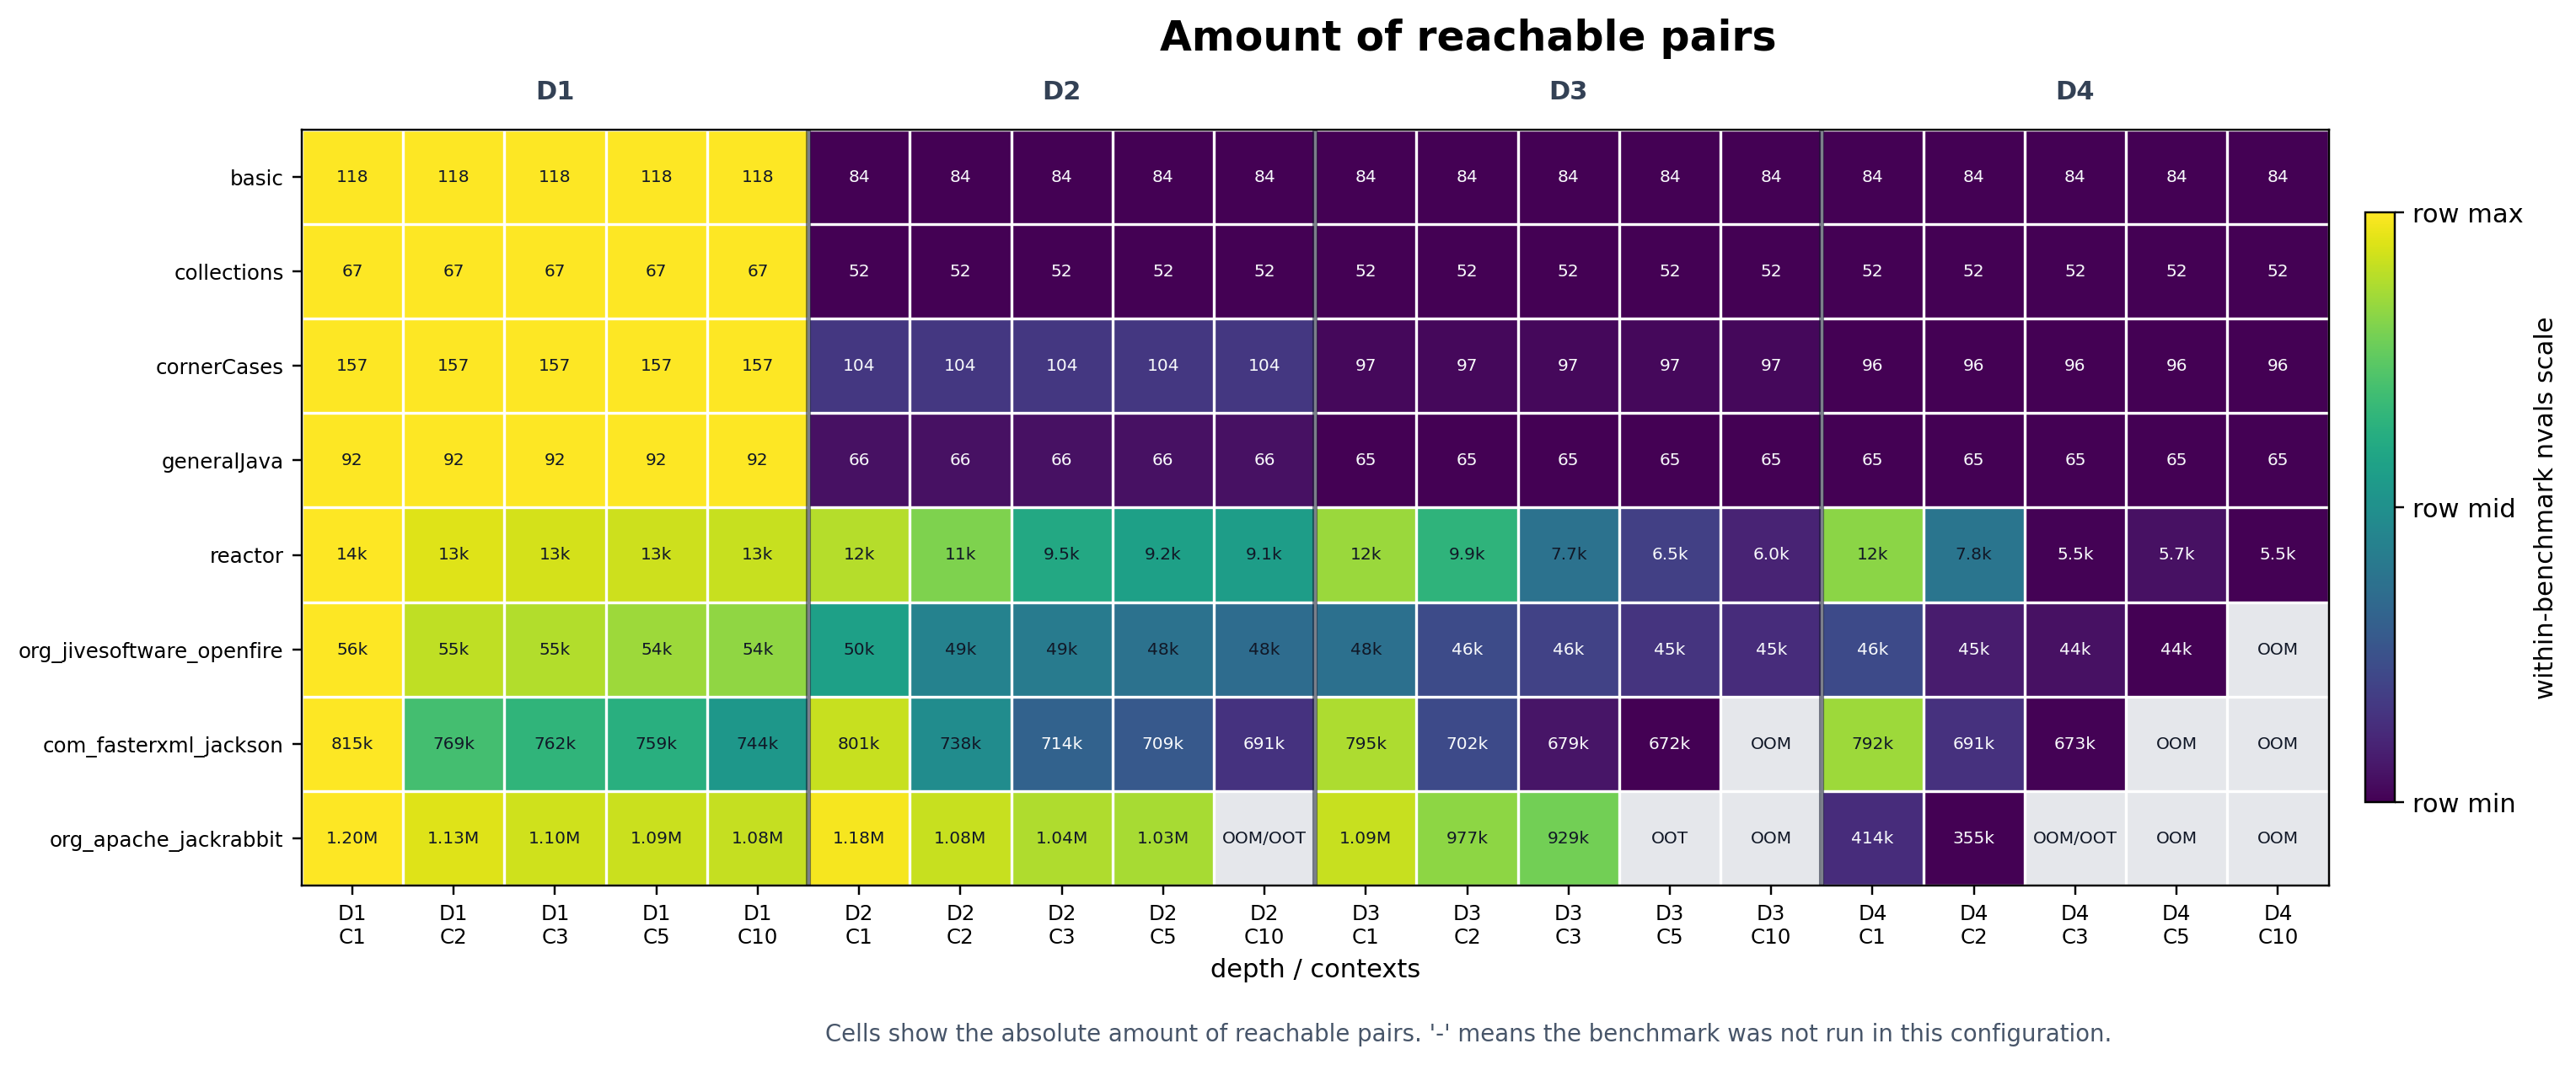
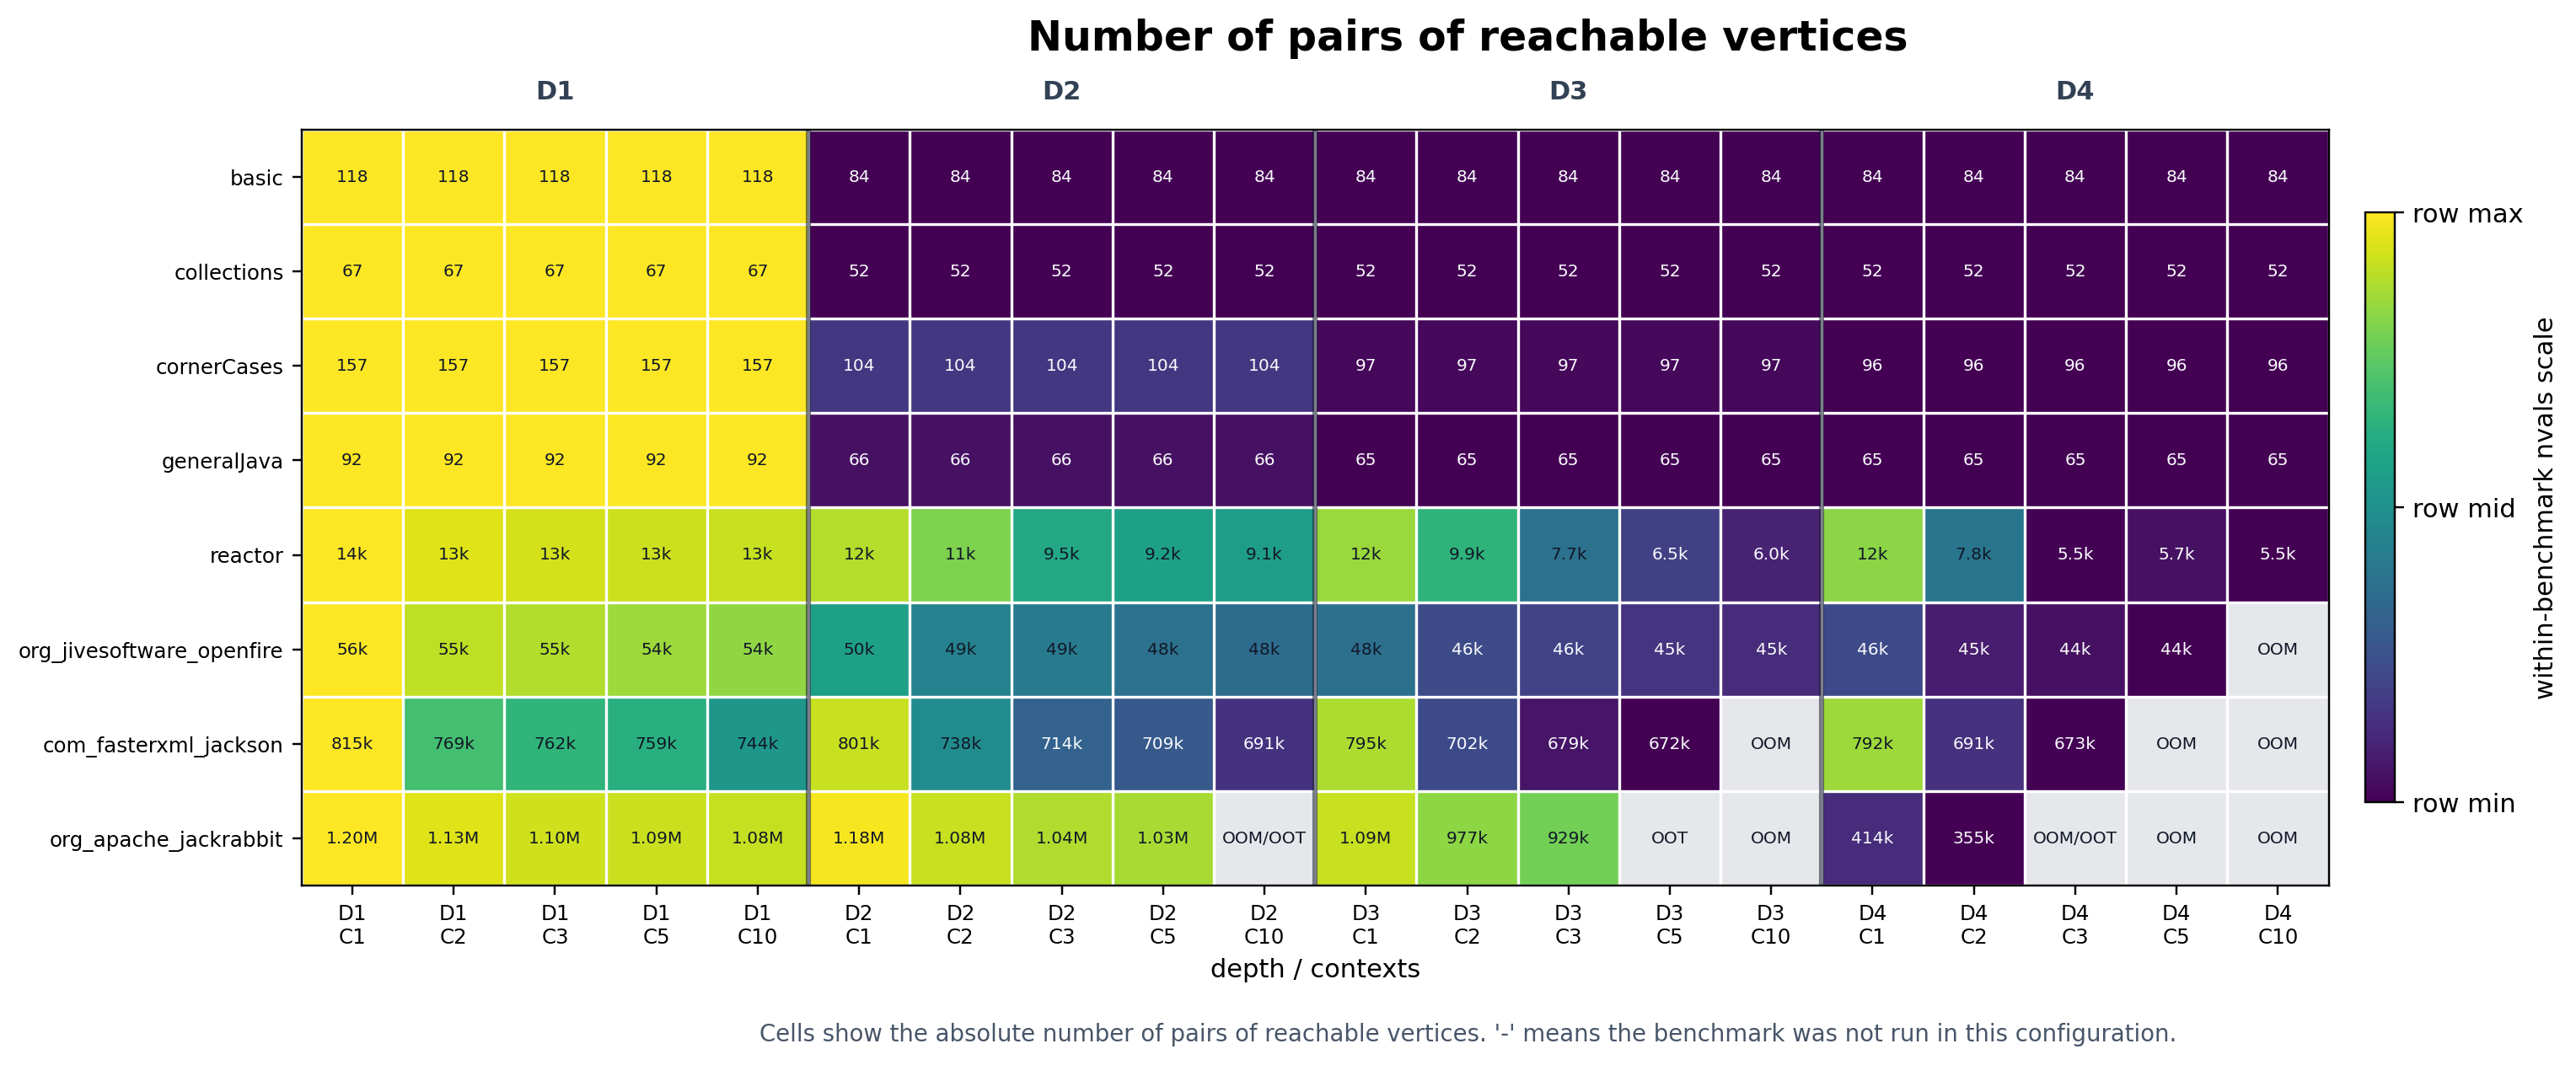
Fix: fix term rechable pairs

Changed region(s): [[0.4041, 0.0, 0.7461, 0.0617], [0.2798, 0.9565, 0.8393, 0.9873]]

diff --git a/analysis/scripts/plot_homka_bgef_nvals_table.py b/analysis/scripts/plot_homka_bgef_nvals_table.py
@@ -296,7 +296,7 @@ def plot_table(df: pd.DataFrame, output: Path, small_only: bool) -> None:
                     color=color,
                 )
 
-    fig.suptitle("Amount of reachable pairs", fontsize=16, fontweight="bold", y=0.98)
+    fig.suptitle("Number of pairs of reachable vertices", fontsize=16, fontweight="bold", y=0.98)
     fig.subplots_adjust(left=0.13, right=0.9, top=0.88, bottom=0.2)
     cbar = fig.colorbar(image, ax=ax, shrink=0.78, pad=0.015)
     cbar.set_ticks([0, 0.5, 1])
@@ -305,7 +305,7 @@ def plot_table(df: pd.DataFrame, output: Path, small_only: bool) -> None:
     fig.text(
         0.5,
         0.06,
-        "Cells show the absolute amount of reachable pairs. '-' means the benchmark was not run in this configuration.",
+        "Cells show the absolute number of pairs of reachable vertices. '-' means the benchmark was not run in this configuration.",
         ha="center",
         fontsize=9,
         color="#475569",

diff --git a/README.md b/README.md
@@ -33,7 +33,7 @@ counts 1, 2, 3, 5, and 10 (`C1`, `C2`, ...).
 
 Each configuration was launched three times. Running time is reported as the arithmetic mean over three successful runs. Memory consumption is reported as the arithmetic mean over the last two successful runs, which reduces the effect of initialization.
 
-The output size is reported as the number of reachable pairs.
+The output size is reported as the number of pairs of reachable vertices.
 
 The following failure markers are used in the tables:
 
@@ -41,11 +41,11 @@ The following failure markers are used in the tables:
 - `OOM` means out of memory. In this experiment, a run was treated as OOM when it started using swap.
 - `-` means that the value cannot be compared, usually because only one of the two variants failed.
 
-## 1. Reachable Pairs
+## 1. Pairs of Reachable Vertices
 
 This metric is the *same* for the grouped and ungrouped variants.
 
-![Number of reachable pairs](analysis/png/homka_bgef_depth_nvals_table.png)
+![Number of pairs of reachable vertices](analysis/png/homka_bgef_depth_nvals_table.png)
 
 Some cells are marked as `OOM`, `OOT`, or `OOM/OOT`. In these configurations the result could not be fully computed under the experimental limits.
 